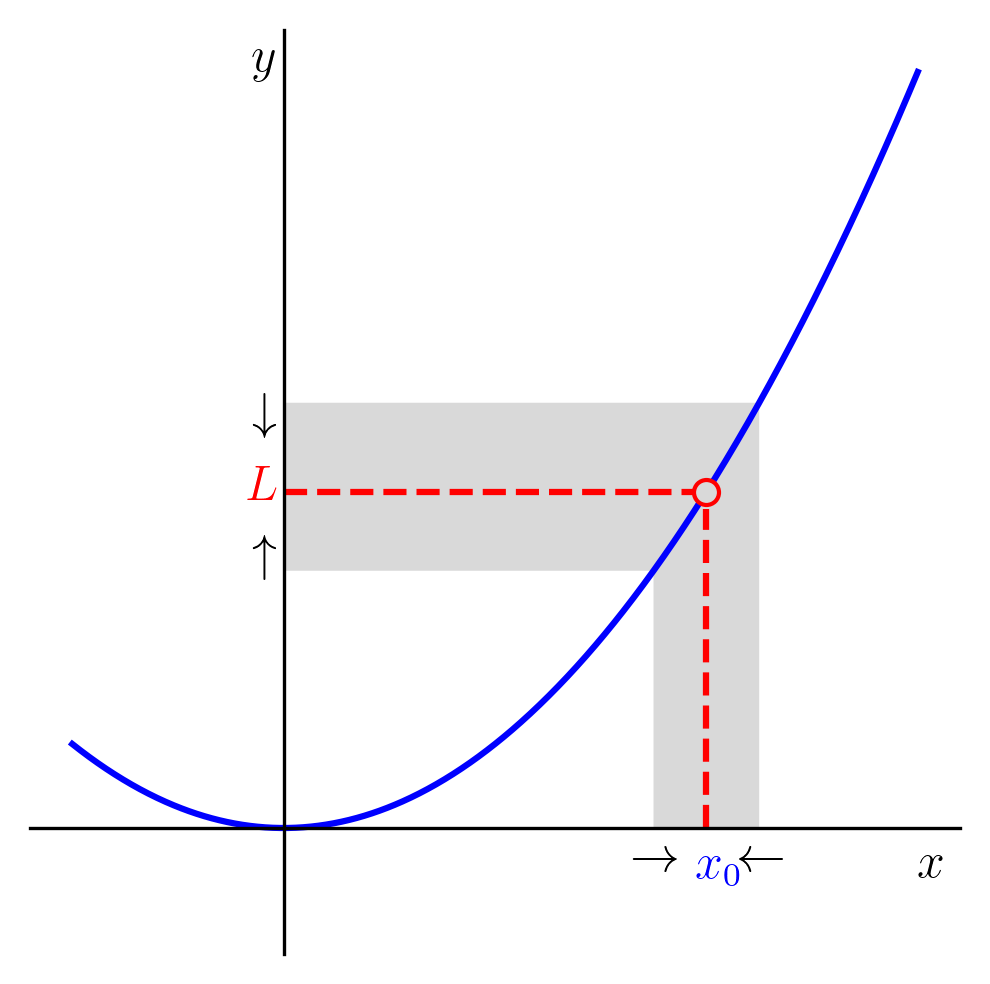
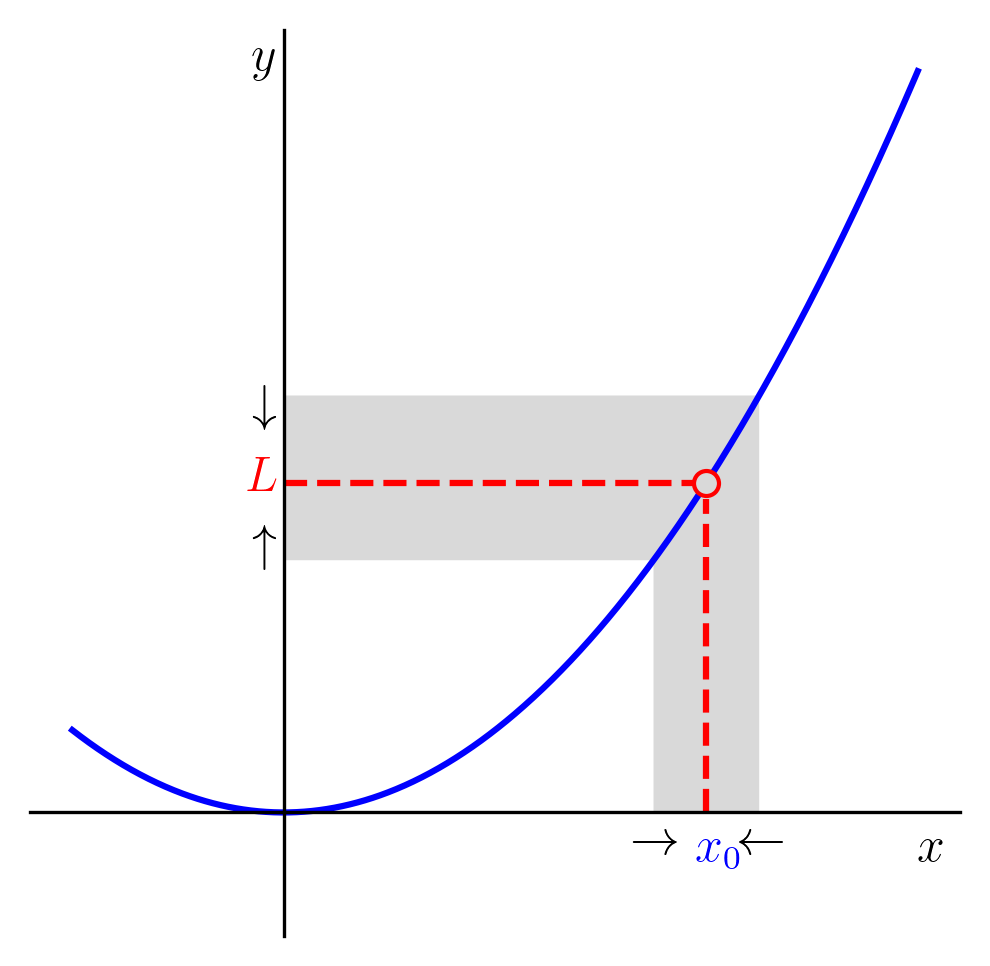
CalculoI: ajustes em figuras

Changed region(s): [[0.0303, 0.8385, 0.9697, 0.9006], [0.697, 0.528, 0.7273, 0.5901]]

diff --git a/src/CalculoI/cap_lim/cap_lim.tex b/src/CalculoI/cap_lim/cap_lim.tex
@@ -13,7 +13,7 @@ e dizemos que o {\bf limite da função $f$ é $L$ quando $x$ tende a $x_0$}. Ve
 
 \begin{figure}[H]
   \centering
-  \includegraphics[width=4in]{./cap_lim/dados/fig_lim/fig}
+  \includegraphics[width=4in]{./cap_lim/dados/fig_lim/fig.png}
   \caption{Noção de limite de uma função.}
   \label{fig:lim}
 \end{figure}
@@ -63,9 +63,6 @@ e dizemos que o {\bf limite da função $f$ é $L$ quando $x$ tende a $x_0$}. Ve
 
 \subsection{Limites da função constante e da função identidade}\label{sslfc}
 \badgeYouTube{\_7YiqVx8e8M}
-% \begin{flushright}
-%   \href{https://youtu.be/_7YiqVx8e8M}{[YouTube]} | \href{https://archive.org/details/lim_fconst_fid}{[Vídeo]} | [Áudio] | \href{https://phkonzen.github.io/notas/contato.html}{[Contatar]}
-% \end{flushright}
 
 Da noção de limite, podemos inferir que
 \begin{equation}
@@ -75,8 +72,8 @@ seja qual for a constante $k$. Veja a Figura \ref{fig:lim_funk}.
 
 \begin{figure}[H]
   \centering
-  \includegraphics[width=0.7\textwidth]{./cap_lim/dados/fig_lim_funk/fig_lim_funk}
-  \caption{Esboço do gráfico de uma função constante $f(x) = k$.}
+  \includegraphics[width=0.7\textwidth]{./cap_lim/dados/fig_lim_funk/fig.png}
+  \caption{Limite de função constante $f(x) = k$.}
   \label{fig:lim_funk}
 \end{figure}
 
@@ -106,8 +103,8 @@ seja qual for o ponto $x_0$. Vejamos a Figura \ref{fig:lim_funid}.
 
 \begin{figure}[H]
   \centering
-  \includegraphics[width=0.7\textwidth]{./cap_lim/dados/fig_lim_funid/fig_lim_funid}
-  \caption{Noção de limite para a função identidade $f(x)=x$.}
+  \includegraphics[width=0.7\textwidth]{./cap_lim/dados/fig_lim_funid/fig.png}
+  \caption{Limite da função identidade $f(x)=x$.}
   \label{fig:lim_funid}
 \end{figure}
 

diff --git a/src/CalculoI/cap_lim/dados/fig_lim_funk/main.py b/src/CalculoI/cap_lim/dados/fig_lim_funk/main.py
@@ -4,7 +4,11 @@ from sympy import *
 plt.rcParams.update({
      "text.usetex": True,
      "font.family": "serif",
-     "font.size": 16
+     "font.size": 12,
+     "font.sans-serif": "Computer Modern Roman",
+     "text.latex.preamble": r"\usepackage{amsmath} \usepackage{amssymb}",
+     "figure.figsize": [4, 4],
+     "figure.dpi": 300
      })
 
 var('x',real=True)
@@ -15,9 +19,9 @@ p3 = plot(2,(x,-2,2),line_color='none',show=False)
 p = p1
 p.extend(p2)
 p.extend(p3)
-p.xlabel = '$x$'
-p.ylabel = '$y$'
-p.save('fig_lim_funk.png')
+p.xlabel = ''
+p.ylabel = ''
+p.save('fig.png')
 
 fig = p._backend.fig
 ax = fig.axes[0]
@@ -26,7 +30,9 @@ ax.set_xticks([1])
 ax.set_xticklabels(['$\\rightarrow x_0 \\leftarrow$'])
 ax.set_yticks([1])
 ax.set_yticklabels([])
+ax.text(2, -0.15, '$x$')
+ax.text(-0.2, 1.8, '$y$')
 ax.text(-0.15,1.1,"$k$")
 ax.plot([1,1],[0,1],ls='--',color='gray')
 ax.plot([1],[1],marker='o')
-fig.savefig('fig_lim_funk.png', bbox_inches='tight', transparent=True)
+fig.savefig('fig.png', bbox_inches='tight')

diff --git a/src/CalculoI/cap_lim/dados/fig_lim/main.py b/src/CalculoI/cap_lim/dados/fig_lim/main.py
@@ -6,9 +6,8 @@ plt.rcParams.update({
      "font.family": "serif",
      "font.size": 12,
      "font.sans-serif": "Computer Modern Roman",
-     "text.latex.preamble": r"\usepackage{amsmath}",
-     "text.latex.preamble": r"\usepackage{amssymb}",
-     "figure.figsize": [4, 4],
+     "text.latex.preamble": r"\usepackage{amsmath} \usepackage{amssymb}",
+     "figure.figsize": (4,4),
      "figure.dpi": 300
      })
 
@@ -27,9 +26,12 @@ q = plot_implicit(x<sqrt(y),(x,0,3),(y,(x0-tol)**2,(x0+tol)**2),
 p.extend(q)
 p.xlabel = ''
 p.ylabel = ''
-p.save('fig_lim.png')
+p.save('fig_lim.svg')
+# p.show()
 
 fig = p._backend.fig
+#fig.set_size_inches(4, 4)
+
 ax = fig.axes[0]
 ax.set_yticks([])
 ax.set_xticks([])
@@ -48,4 +50,5 @@ ax.text(-0.15,(x0-tol)**2,"$\\uparrow$")
 ax.text(-0.15,(x0+tol)**2-0.3,"$\\downarrow$")
 ax.text(-0.175,x0**2-0.1,"$L$",color="red")
 ax.plot([x0],[x0**2],marker="o",markersize=6,markeredgecolor="red",markerfacecolor="0.85")
+
 fig.savefig('fig.png', bbox_inches='tight')

diff --git a/src/CalculoI/cap_lim/dados/fig_lim_funid/main.py b/src/CalculoI/cap_lim/dados/fig_lim_funid/main.py
@@ -4,7 +4,11 @@ from sympy import *
 plt.rcParams.update({
      "text.usetex": True,
      "font.family": "serif",
-     "font.size": 16
+     "font.size": 12,
+     "font.sans-serif": "Computer Modern Roman",
+     "text.latex.preamble": r"\usepackage{amsmath} \usepackage{amssymb}",
+     "figure.figsize": [4, 4],
+     "figure.dpi": 300
      })
 
 var('x,y', real=True)
@@ -20,7 +24,7 @@ q = plot_implicit(x<y,(x,0,3),(y,(x0-tol),(x0+tol)),
 p.extend(q)
 p.xlabel = '$x$'
 p.ylabel = '$y$'
-p.save('fig_lim_funid.png')
+p.save('fig.png')
 
 fig = p._backend.fig
 ax = fig.axes[0]
@@ -40,4 +44,4 @@ ax.text(-0.2,x0+tol,"$\\downarrow$")
 ax.text(-0.3,x0-0.05,"$x_0$")
 ax.plot([x0],[x0],marker="o",markersize=6,markeredgecolor="red",markerfacecolor="red")
 ax.text(2.5+0.2,2.5,"$y=x$")
-fig.savefig('fig_lim_funid.png', bbox_inches='tight')
+fig.savefig('fig.png', bbox_inches='tight')

diff --git a/src/CalculoI/cap_lim/dados/fig_ex_lim0/main.py b/src/CalculoI/cap_lim/dados/fig_ex_lim0/main.py
@@ -6,8 +6,7 @@ plt.rcParams.update({
      "font.family": "serif",
      "font.size": 12,
      "font.sans-serif": "Computer Modern Roman",
-     "text.latex.preamble": r"\usepackage{amsmath}",
-     "text.latex.preamble": r"\usepackage{amssymb}",
+     "text.latex.preamble": r"\usepackage{amsmath} \usepackage{amssymb}",
      "figure.figsize": [4, 4],
      "figure.dpi": 300
      })
